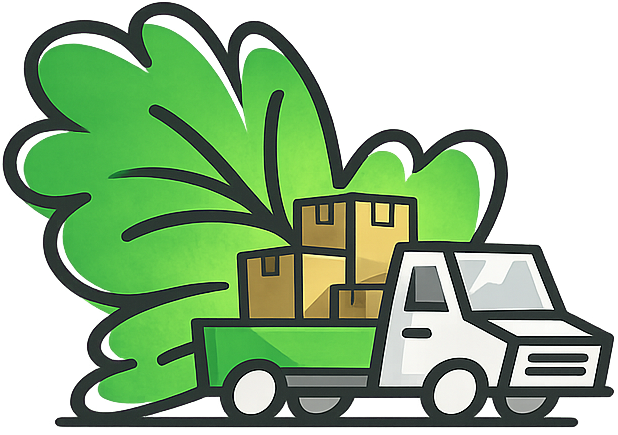
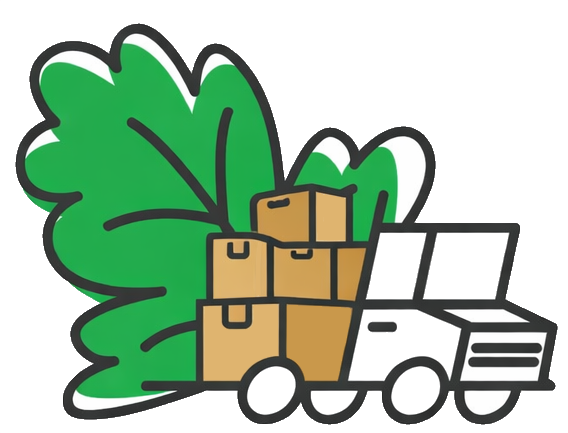
updated services png once more

diff --git a/src/components/sections/Services.jsx b/src/components/sections/Services.jsx
@@ -3,7 +3,12 @@ import { useState } from 'react'
 import { useTheme } from '@context/useTheme'
 import { ChevronIcon } from '@components/ui/icons'
 
-import localMovingImg from '@assets/services/house-moving.png'
+import localMovingImg from '@assets/services/local-moving.png'
+import packingServicesImg from '@assets/services/packing-services.png'
+import residentialMovingImg from '@assets/services/residential-moving.png'
+import commercialMovingImg from '@assets/services/commercial-moving.png'
+import instateMovingImgImg from '@assets/services/instate-moving.png'
+import furnitureMovingImg from '@assets/services/furniture-moving.png'
 
 const SERVICES = [
   {
@@ -17,35 +22,35 @@ const SERVICES = [
     id: 'residential-moving',
     title: 'Residential Moving',
     description: 'We take full care of your home relocation — wrapping furniture, protecting floors, and securing fragile items so everything arrives exactly as it left.',
-    img: localMovingImg,
+    img: residentialMovingImg,
     href: '#residential-moving',
   },
   {
     id: 'commercial-moving',
     title: 'Commercial Moving',
     description: 'We relocate offices and businesses with minimal disruption. Our team works around your schedule — evenings, weekends, and holidays — to keep your downtime as short as possible.',
-    img: localMovingImg,
+    img: commercialMovingImg,
     href: '#commercial-moving',
   },
-  {
-    id: 'long-distance',
-    title: 'Long Distance Moving',
-    description: 'Moving out of the Bay Area? We manage the full process — packing, inventory, and safe delivery — for moves across California and to any state in the US.',
-    img: localMovingImg,
-    href: '#long-distance',
+    {
+    id: 'in-state-moving',
+    title: 'In-State Moving',
+    description: 'Long distance moving services within California. We handle residential and apartment moves between cities across the state with careful loading, transportation and safe delivery.',
+    img: instateMovingImgImg,
+    href: '#in-state-moving',
   },
   {
     id: 'packing',
     title: 'Packing Services',
     description: 'Our team packs your entire home or just the fragile pieces — using quality materials to keep everything safe. We label and organize boxes so unpacking is easy.',
-    img: localMovingImg,
+    img: packingServicesImg,
     href: '#packing',
   },
   {
     id: 'furniture',
     title: 'Furniture Moving',
     description: 'We wrap, pad, and secure every piece before it moves. Large sofas, antiques, or custom builds — we handle disassembly at pickup and reassembly at delivery.',
-    img: localMovingImg,
+    img: furnitureMovingImg,
     href: '#furniture',
   },
 ]
@@ -56,7 +61,7 @@ function ServiceCard({ service, t }) {
       style={{ backgroundColor: t.bg.section }}
       className="flex flex-col"
     >
-      <div className="w-32 h-32 mb-4">
+      <div className="w-38 h-38 mb-4">
         <img
           src={service.img}
           alt={service.title}
@@ -92,9 +97,9 @@ function AccordionItem({ service, t, isOpen, onToggle }) {
         className="w-full flex items-center justify-between py-4 text-left gap-3"
       >
         <div className="flex items-center gap-3">
-          <div className="w-8 h-8 shrink-0">
+          <div className="w-15 h-15 shrink-0">
             <img
-              src="/favicon.ico"
+              src={service.img}
               alt={service.title}
               className="w-full h-full object-contain"
             />
